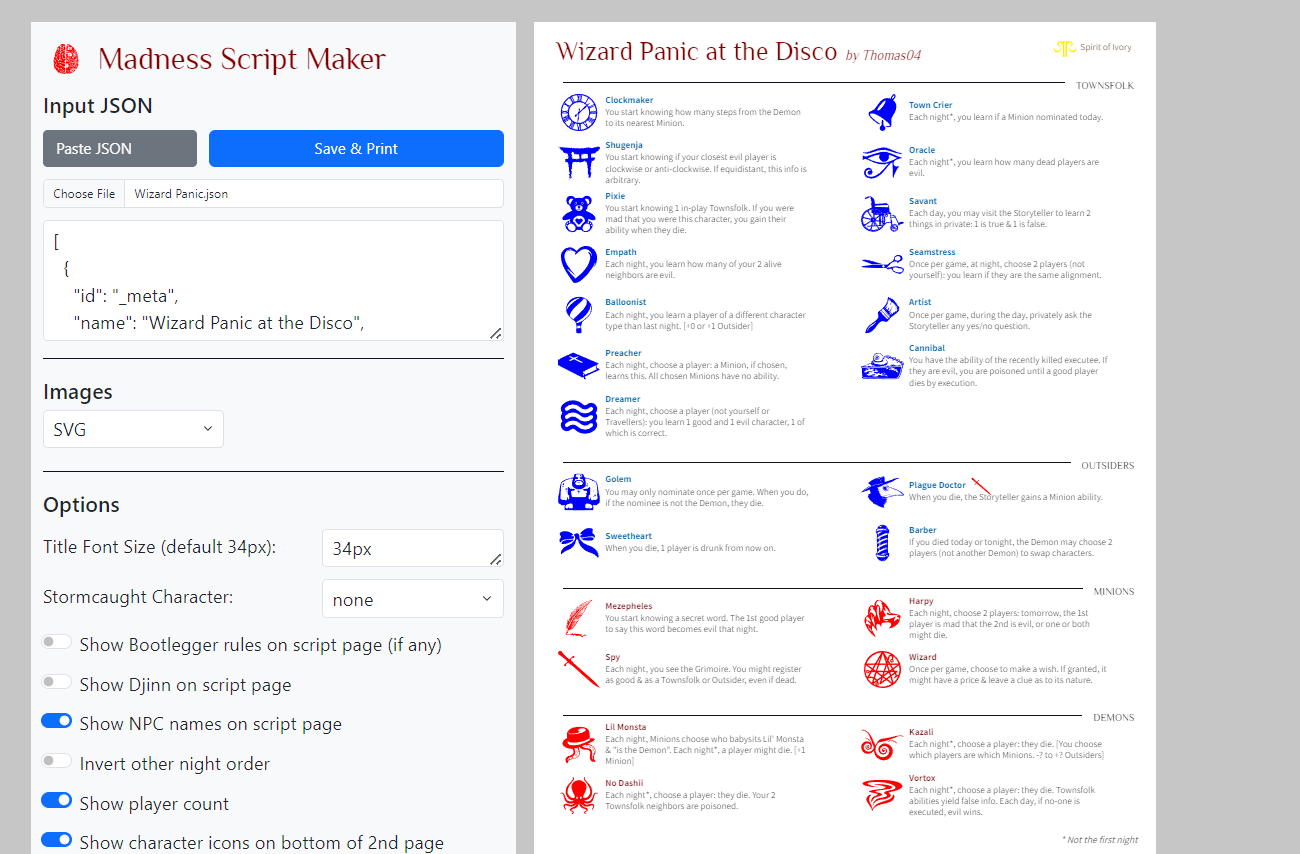
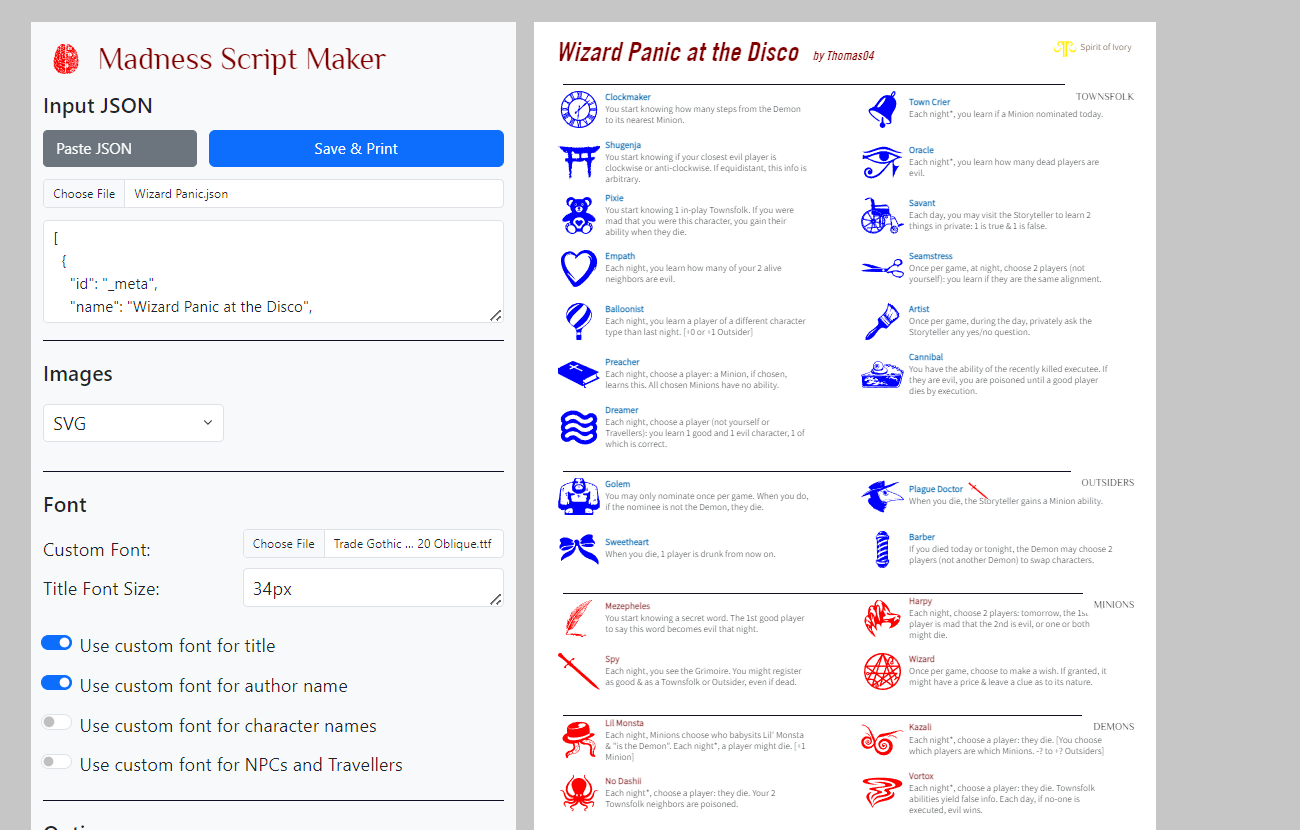
updated screenshots and readme

diff --git a/README.md b/README.md
@@ -8,6 +8,8 @@ For any feedback or questions, contact @Thomas04 on the Unoffical BOTC discord.
 ## Features
 * Full homebrew support
 
+* Upload a custom font file that can be used for the title, author, and character names.
+
 * Choose between Unofficial PNG, SVG or your external character images
 
 * Change script title font size
